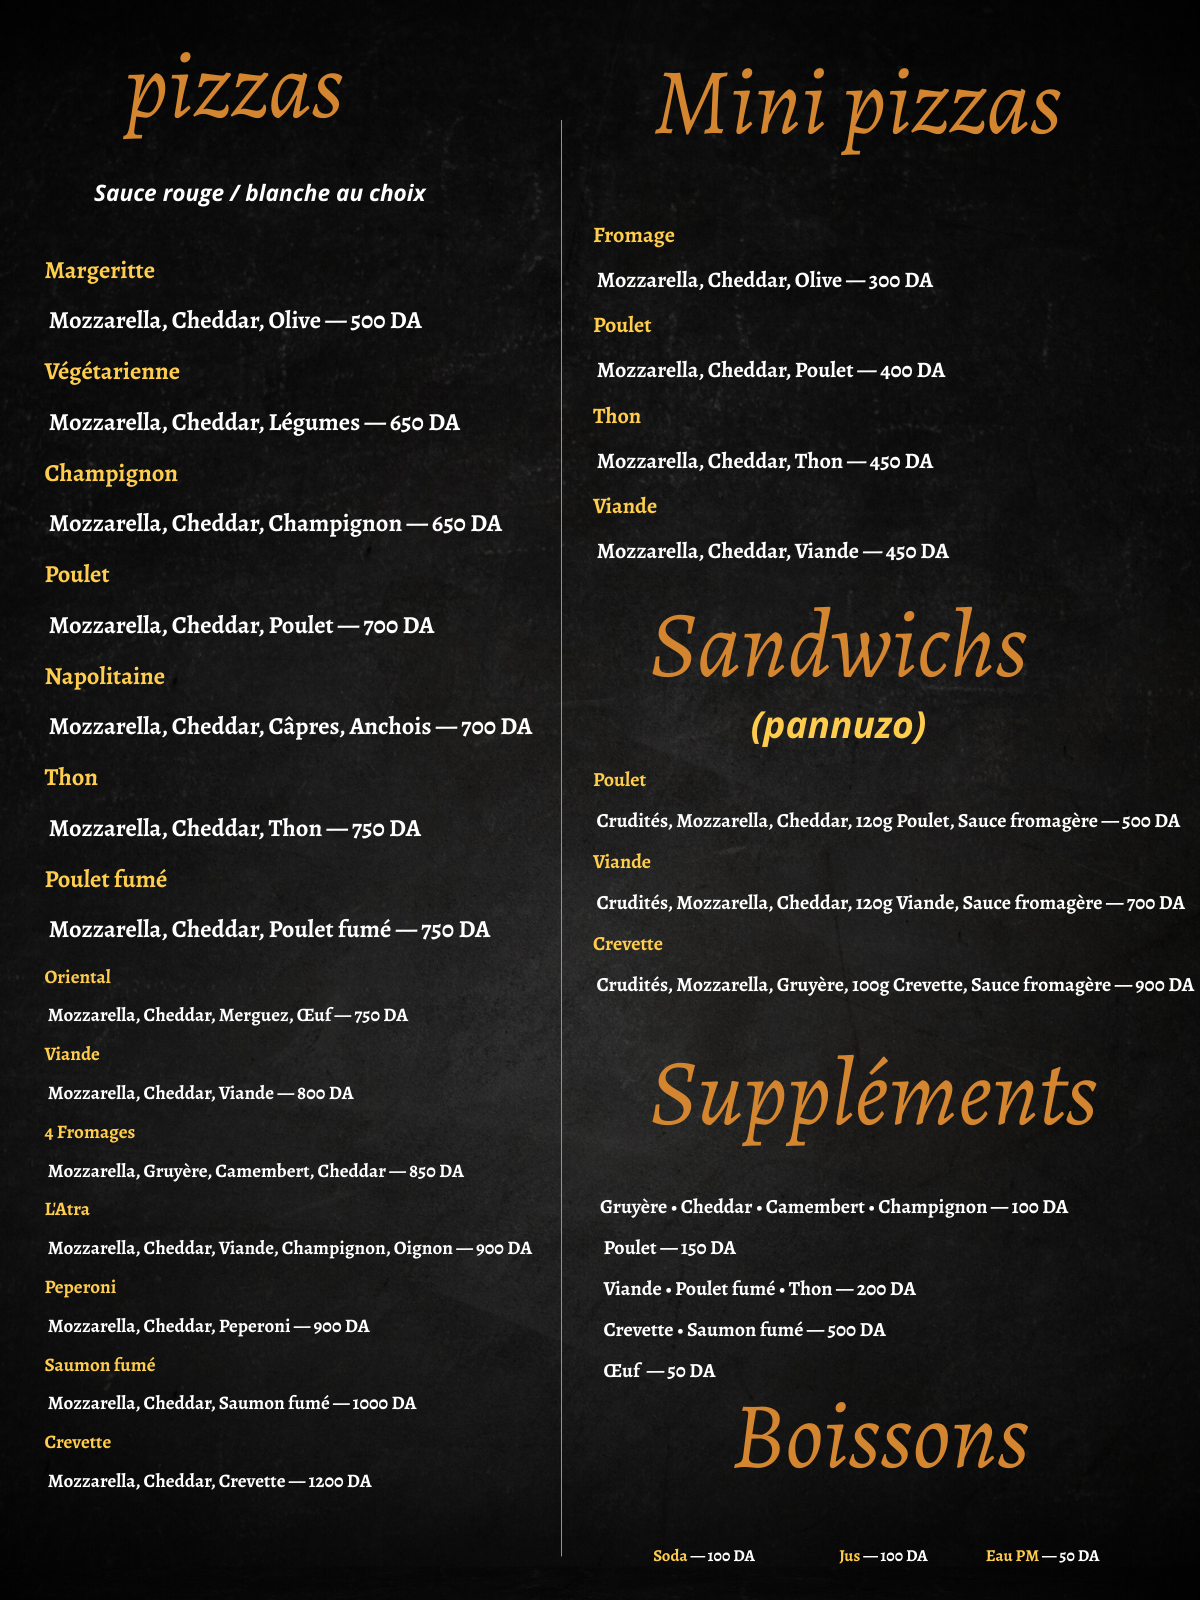
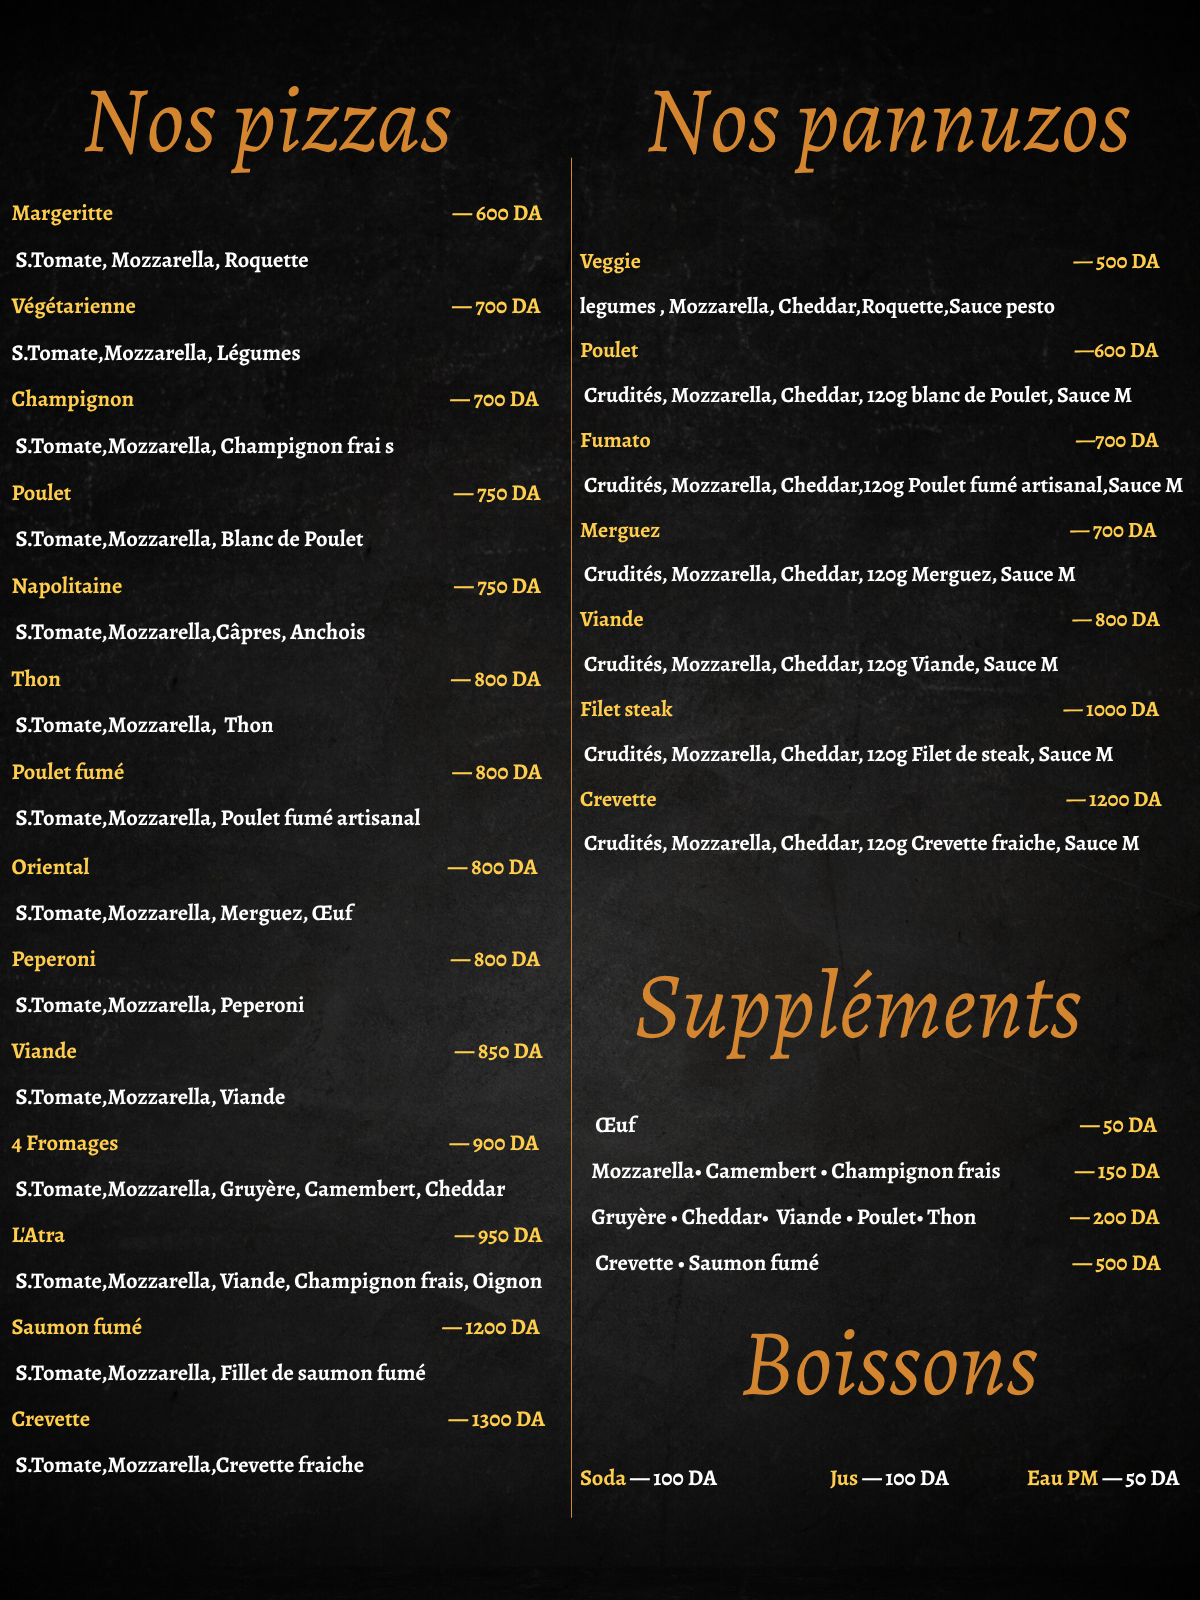
hebergechiraz22/03

diff --git a/src/home.js b/src/home.js
@@ -110,8 +110,8 @@ const [menuOpen, setMenuOpen] = useState(false);
           </div>
           <div className="contact-details">
             <h3>Horaires d'ouverture</h3>
-            <p><strong>Sam - Jeu vendredi</strong><br />11h00 à 00h00 </p>
-                        <p><strong>vendredi </strong><br /> 14h00 à 00h00 </p>
+            <p><strong>Sam - Jeu </strong><br />11h00 à 23h30</p>
+                        <p><strong>vendredi </strong><br /> 17h30 à 23h30 </p>
 
             <p className="contact-note">Service continu tous les jours</p>
           </div>
